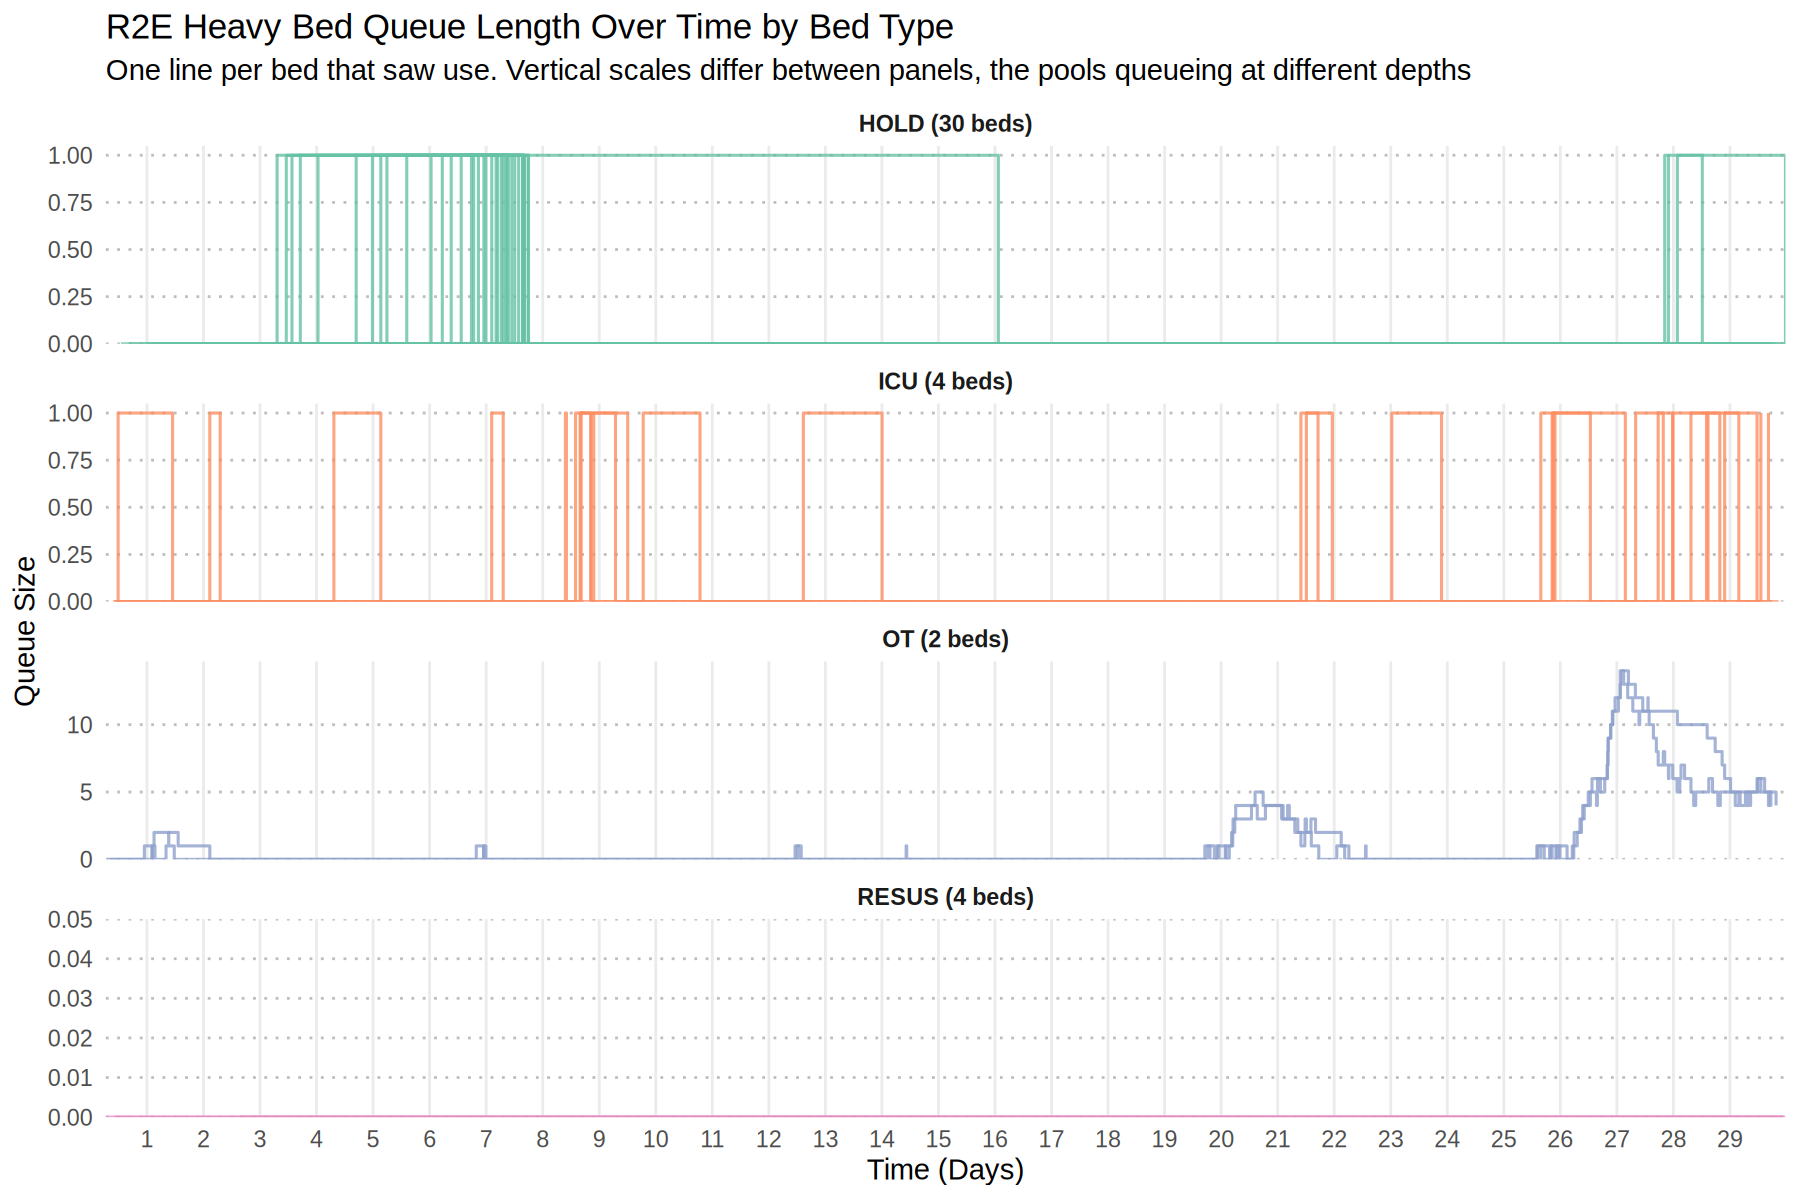
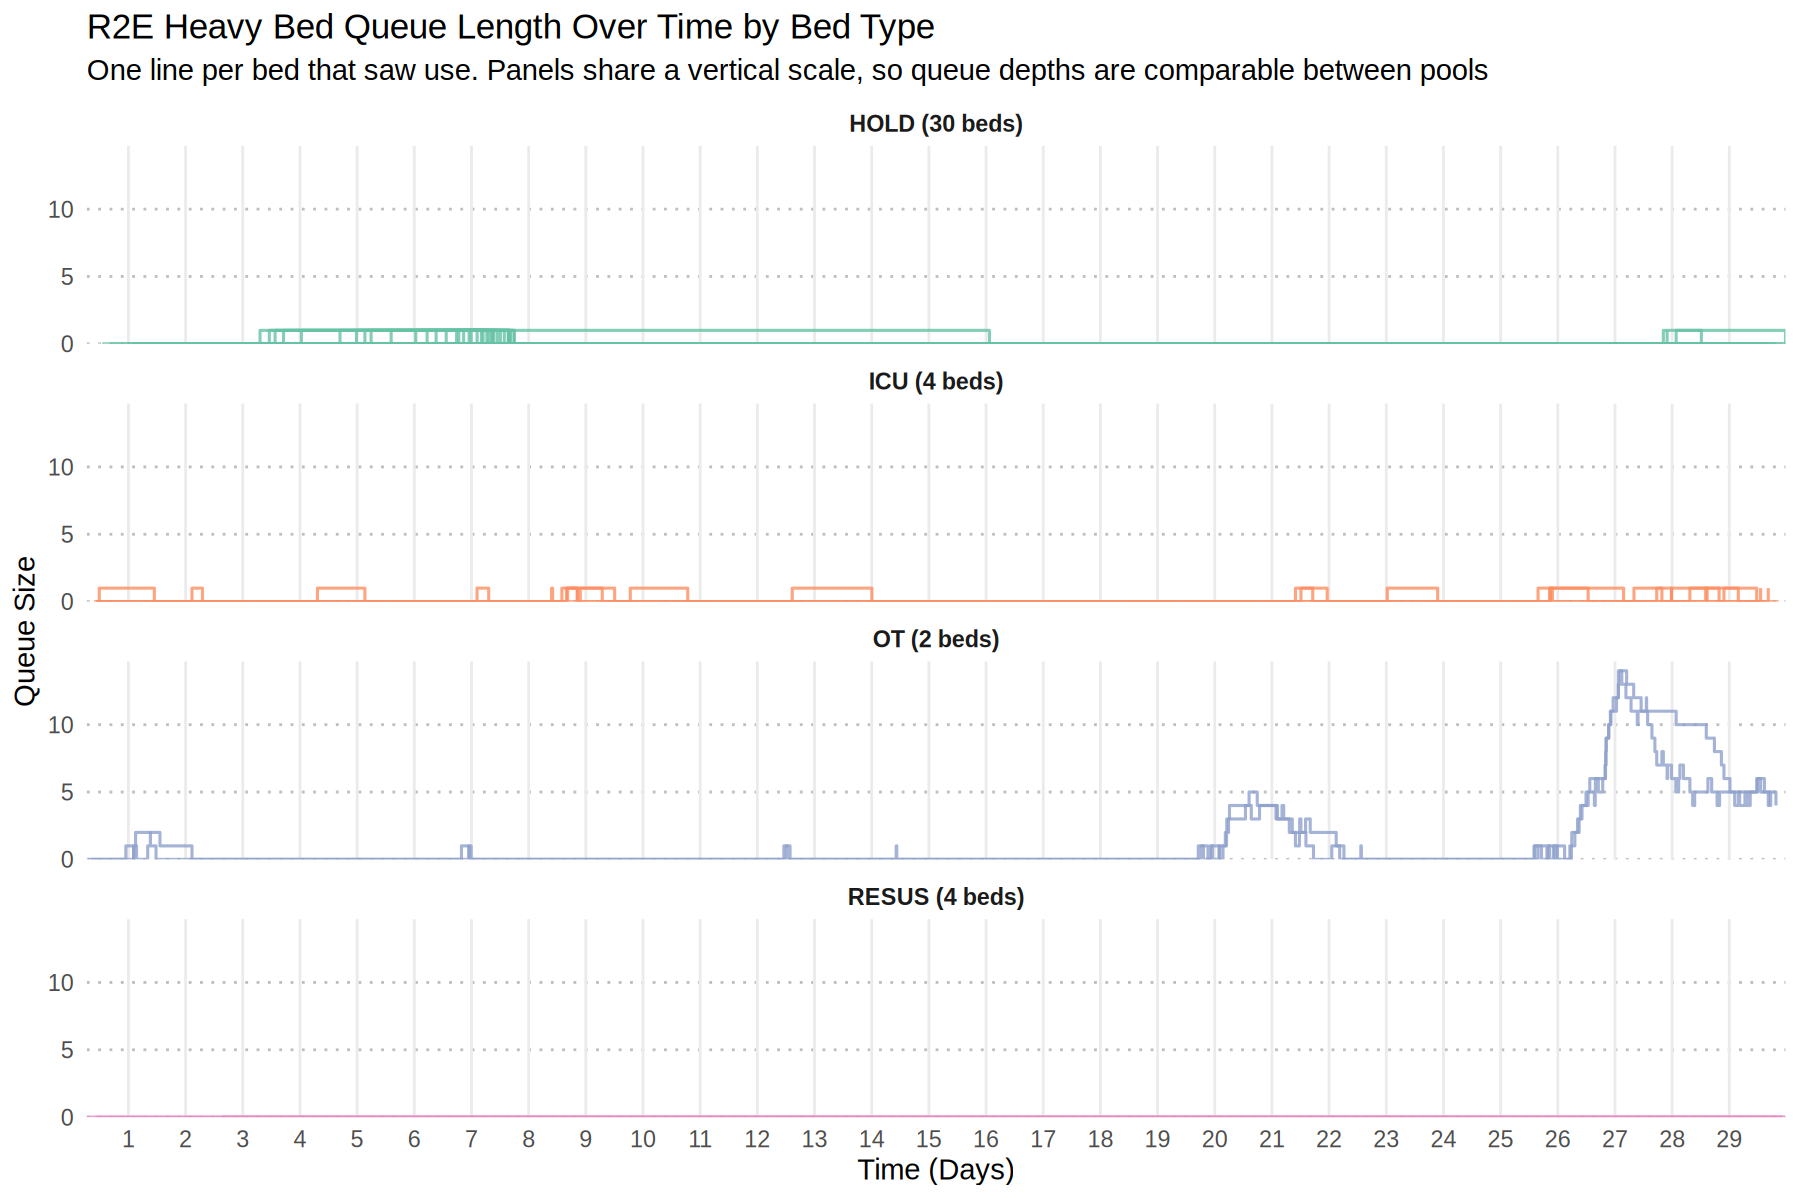
fix(issue-315): share one vertical scale across the bed queue panels
The panels were faceted on free vertical scales, on the issue's reasoning that
a shared axis across thirty holding beds and two theatres would flatten the
smaller series. That premise does not survive measurement. The holding and
intensive care queues never exceed one casualty on any bed and the theatre
queue reaches fourteen, so on a shared 0-to-14 axis the shallow pools sit about
a fourteenth of the way up the panel, which is legible as a distinct band
rather than flattened to the axis.

What a free scale does instead is draw every pool filling its own panel
whatever it queued, so a pool never exceeding one casualty is drawn exactly as
prominently as one reaching fourteen. A reader scanning the figure would take
the pools to be under comparable strain. That is the same harm as the omission
this issue exists to fix, reached by a different route: the figure creating an
impression the data does not support.

The regression check asserted the free scale and now asserts the shared one,
its banner carrying the reasoning. The plot's subtitle, its roxygen, the code
comment, the paper's figure paragraph and alt text, and the three places that
described independent vertical scales are all updated with it.

The tracked figure is regenerated. logs/logs.txt and every data/ file remain
byte identical, check_baseline_reproduction.R passes, the fast suite passes
28 of 28, and both ratchets hold at 1163 and 171.

Refs #315
[…]

diff --git a/docs/Single_Run_Analysis.md b/docs/Single_Run_Analysis.md
@@ -220,9 +220,9 @@ Two caveats bound the finding. No open-access source sets a doctrinal standard f
 
 **What set the pace at R2E was the second-shift surgical section, not theatre space, and intensive care ran close enough to saturation that a majority of operated casualties received a degraded post-operative pathway.** R2E Heavy is the modelled system's main surgical node, receiving casualties sent straight from R1 and casualties passed on from an R2B whose theatre was off shift, occupied, or short of intensive care. In this run it performed 137 first surgeries and 55 second surgeries. Only a damage control casualty whose abbreviated first operation happened here comes back to theatre for the definitive repair that completes the staged sequence [[11]](#references), which is why the second count is so much smaller: a single-stage casualty needs no second procedure, and a damage control casualty operated on forward at R2B had its first stage elsewhere (see README [Surgical Pathway](../README.md#surgical-pathway)).
 
-![Step plots of R2E Heavy queue length over the run, one panel per bed type on its own vertical scale, the thirty holding beds and the four intensive care beds each never exceeding a queue of one on any single bed, the two operating theatres peaking at fourteen on day 28, and the four resuscitation beds never queueing at all](../images/r2eheavy_bed_queue_3_teams.png)
+![Step plots of R2E Heavy queue length over the run, one panel per bed type sharing a single vertical scale, the thirty holding beds and the four intensive care beds each never exceeding a queue of one on any single bed, the two operating theatres peaking at fourteen on day 28, and the four resuscitation beds never queueing at all](../images/r2eheavy_bed_queue_3_teams.png)
 
-Every bed type the echelon fields appears here, each panel on its own vertical scale, because the four pools queue at depths an order of magnitude apart and a shared scale flattens the shallower ones to the axis. The theatre queue is the deep one, rising and falling in waves that reached fourteen casualties on day 28 and twelve on day 27 across only two rooms. The holding and intensive care queues are the shallow ones, neither exceeding a single casualty on any one bed, but they are shallow in different ways: the intensive care queue formed behind three of its four beds, while the holding queue appeared behind 19 of the thirty at one time or another, which is a pool absorbing a broad low-level demand rather than one turning casualties away. The four resuscitation beds never queued at all. Read together, the panels place the pressure on theatre access rather than on beds, which is the reading the rest of this section develops.
+Every bed type the echelon fields appears here, and all four panels share one vertical scale, so the depths are comparable between pools rather than each filling its own panel. The theatre queue is the deep one, rising and falling in waves that reached fourteen casualties on day 28 and twelve on day 27 across only two rooms. The holding and intensive care queues sit close to the axis by comparison, neither exceeding a single casualty on any one bed, but they are shallow in different ways: the intensive care queue formed behind three of its four beds, while the holding queue appeared behind 19 of the thirty at one time or another, which is a pool absorbing a broad low-level demand rather than one turning casualties away. The four resuscitation beds never queued at all. Read together, the panels place the pressure on theatre access rather than on beds, which is the reading the rest of this section develops.
 
 **Surgical throughput was limited by rostered teams as much as by theatre space.** An operation needs both a theatre and one of the three surgical sections that staff them. Theatres are available around the clock, but each section works a 12-hour roster, so at most two operations can run at once during the first shift, when two sections are on, and one during the second, when a single section is on. The three sections were busy for 26.8%, 50.3% and 24.4% of the time their own rosters had them open. The middle figure is the highest because that section covers the second shift and carries the whole night-time surgical load by itself. Measured against the 24-hour day, the two theatres were occupied 53.7% and 37.3% of the time. Operating does not account for that. The 192 procedures performed here, at 123.6 minutes of theatre time per case (registry data for deployed Role 2 and Role 3 facilities, with its band means weighted by its own severity mix [[12]](#references)), use about 27% of the two theatres' combined availability, well under half what the rooms report. The room figure is therefore measuring something other than surgery.
 

diff --git a/CLAUDE.md b/CLAUDE.md
@@ -65,7 +65,7 @@ The codebase is organised into a modular layout under `R/`, with `run.R` as the 
 | `scripts/check_arrival_rate_fidelity.R` | Regression check asserting that the generated arrival streams reproduce their configured rates and between-day variance, so a change to the arrival process cannot silently move the casualty count; exits non-zero on failure |
 | `scripts/check_replication_loss_reporting.R` | Regression check asserting that a replication lost to its host is reported rather than dropped silently from the published count: a clean dispatch is unchanged, any loss stops the run under the shipped threshold of zero, a caller who raises the threshold gets a warning and the survivors within it, a loss beyond a raised threshold still stops, and the Welch figure's caption names the realised count it was given; exits non-zero on failure |
 | `scripts/check_absent_attribute_columns.R` | Regression check asserting that an attribute no casualty set is an empty column rather than an absent one: `MODEL_ATTRIBUTE_KEYS` lists every key the model sets and no key it no longer sets, the wide pivot returns all of them from a monitor carrying one, and a run in which nobody returned to duty analyses end to end with the R2B holding summary empty rather than a series of zeroes; exits non-zero on failure |
-| `scripts/check_bed_queue_coverage.R` | Regression check asserting that each echelon's bed queue figure covers every bed type that echelon fields, that each panel label counts the beds in the pool it names, and that the panels carry independent vertical scales; the coverage assertion is made against a bed type no configuration ships, injected into the monitor, so it defends the selection rule rather than today's establishment; exits non-zero on failure |
+| `scripts/check_bed_queue_coverage.R` | Regression check asserting that each echelon's bed queue figure covers every bed type that echelon fields, that each panel label counts the beds in the pool it names, and that the panels share one vertical scale rather than each filling its own; the coverage assertion is made against a bed type no configuration ships, injected into the monitor, so it defends the selection rule rather than today's establishment; exits non-zero on failure |
 | `scripts/check_testthat.R` | Regression check running the Shiny console's `testthat` suite under `tests/testthat`: unit coverage of the console's helpers, and `shiny::testServer()` coverage of its reactive state machine; exits non-zero on any failing test |
 | `tests/testthat/` | The console's R test suite, discovered and run by `scripts/check_testthat.R` and therefore gated per PR |
 | `tests/playwright/`, `playwright.config.js`, `package.json`, `package-lock.json` | The console's browser test suite and the Node toolchain it needs, kept out of `renv.lock` so that no browser automation package enters the R dependency set. Run with `npx playwright test`; it starts the app itself and uses whatever Chromium `PLAYWRIGHT_BROWSERS_PATH` provides |

diff --git a/README.md b/README.md
@@ -1085,7 +1085,7 @@ The codebase is organised into a modular layout under an `R/` directory, with a 
 | `scripts/check_console_bindings.R` | Checks that no console panel function reads a name another panel binds locally. Such a name parses and loads, and fails only when a user opens the panel that reads it, which no R-level test sees; also checks that no panel function is left uncalled. Exits non-zero on failure |
 | `scripts/check_analysis_decomposition.R` | Checks that every stage of the analysis pipeline binds what it returns: that no stage returns a name bound only inside a conditional, and that no stage returns a value nothing reads. Both are properties of the source rather than of any one run, so one check covers every path at once, which an artifact comparison cannot; exits non-zero on failure |
 | `scripts/check_screen_cache.R`     | Checks that a screen's design-point cache resumes what it recorded: that a complete row round-trips, that a partially-missing row reads as present with its gaps preserved while an all-missing row reads as absent and is retried, that an uncached point and a cache from a different screen both read as absent, and that a Sobol cache's per-response standard-deviation columns neither disturb a response lookup nor become unreadable; exits non-zero on failure |
-| `scripts/check_bed_queue_coverage.R` | Checks that each echelon's bed queue figure covers every bed type that echelon fields, that each panel label counts the beds in the pool it names, and that the panels carry independent vertical scales. The coverage assertion is made against a bed type no configuration ships, injected into the monitor, so it holds for a type added later rather than for today's establishment; exits non-zero on failure |
+| `scripts/check_bed_queue_coverage.R` | Checks that each echelon's bed queue figure covers every bed type that echelon fields, that each panel label counts the beds in the pool it names, and that the panels share one vertical scale rather than each filling its own. The coverage assertion is made against a bed type no configuration ships, injected into the monitor, so it holds for a type added later rather than for today's establishment; exits non-zero on failure |
 | `scripts/check_testthat.R`         | Runs the Shiny console's `testthat` suite under `tests/testthat`, which covers the console's reactive state machine through `shiny::testServer()` and its helpers directly; exits non-zero on any failing test |
 | `tests/testthat/`                  | The console's R test suite: helper unit tests, and `testServer` coverage of the run, screening and configuration reactives |
 | `tests/playwright/`                | The console's browser test suite, driving a running app in headless Chromium (see [docs/Continuous_Integration.md](docs/Continuous_Integration.md)) |

diff --git a/scripts/README.md b/scripts/README.md
@@ -124,7 +124,7 @@ sandbox rather than in this container.
 `check_bed_queue_coverage.R` arrived with the bed queue figure work and carries
 no row above. It asserts that each echelon's queue figure covers every bed type
 that echelon fields, that each panel label counts the beds in the pool it names,
-and that the panels carry independent vertical scales. The coverage assertion is
+and that the panels share one vertical scale, a free scale drawing a pool that never exceeds one casualty exactly as one reaching fourteen. The coverage assertion is
 made against a bed type no configuration ships, injected into the resource
 monitor, so it defends the selection rule rather than the establishment as it
 stands. It runs one three-day single run and renders both echelons' figures four
